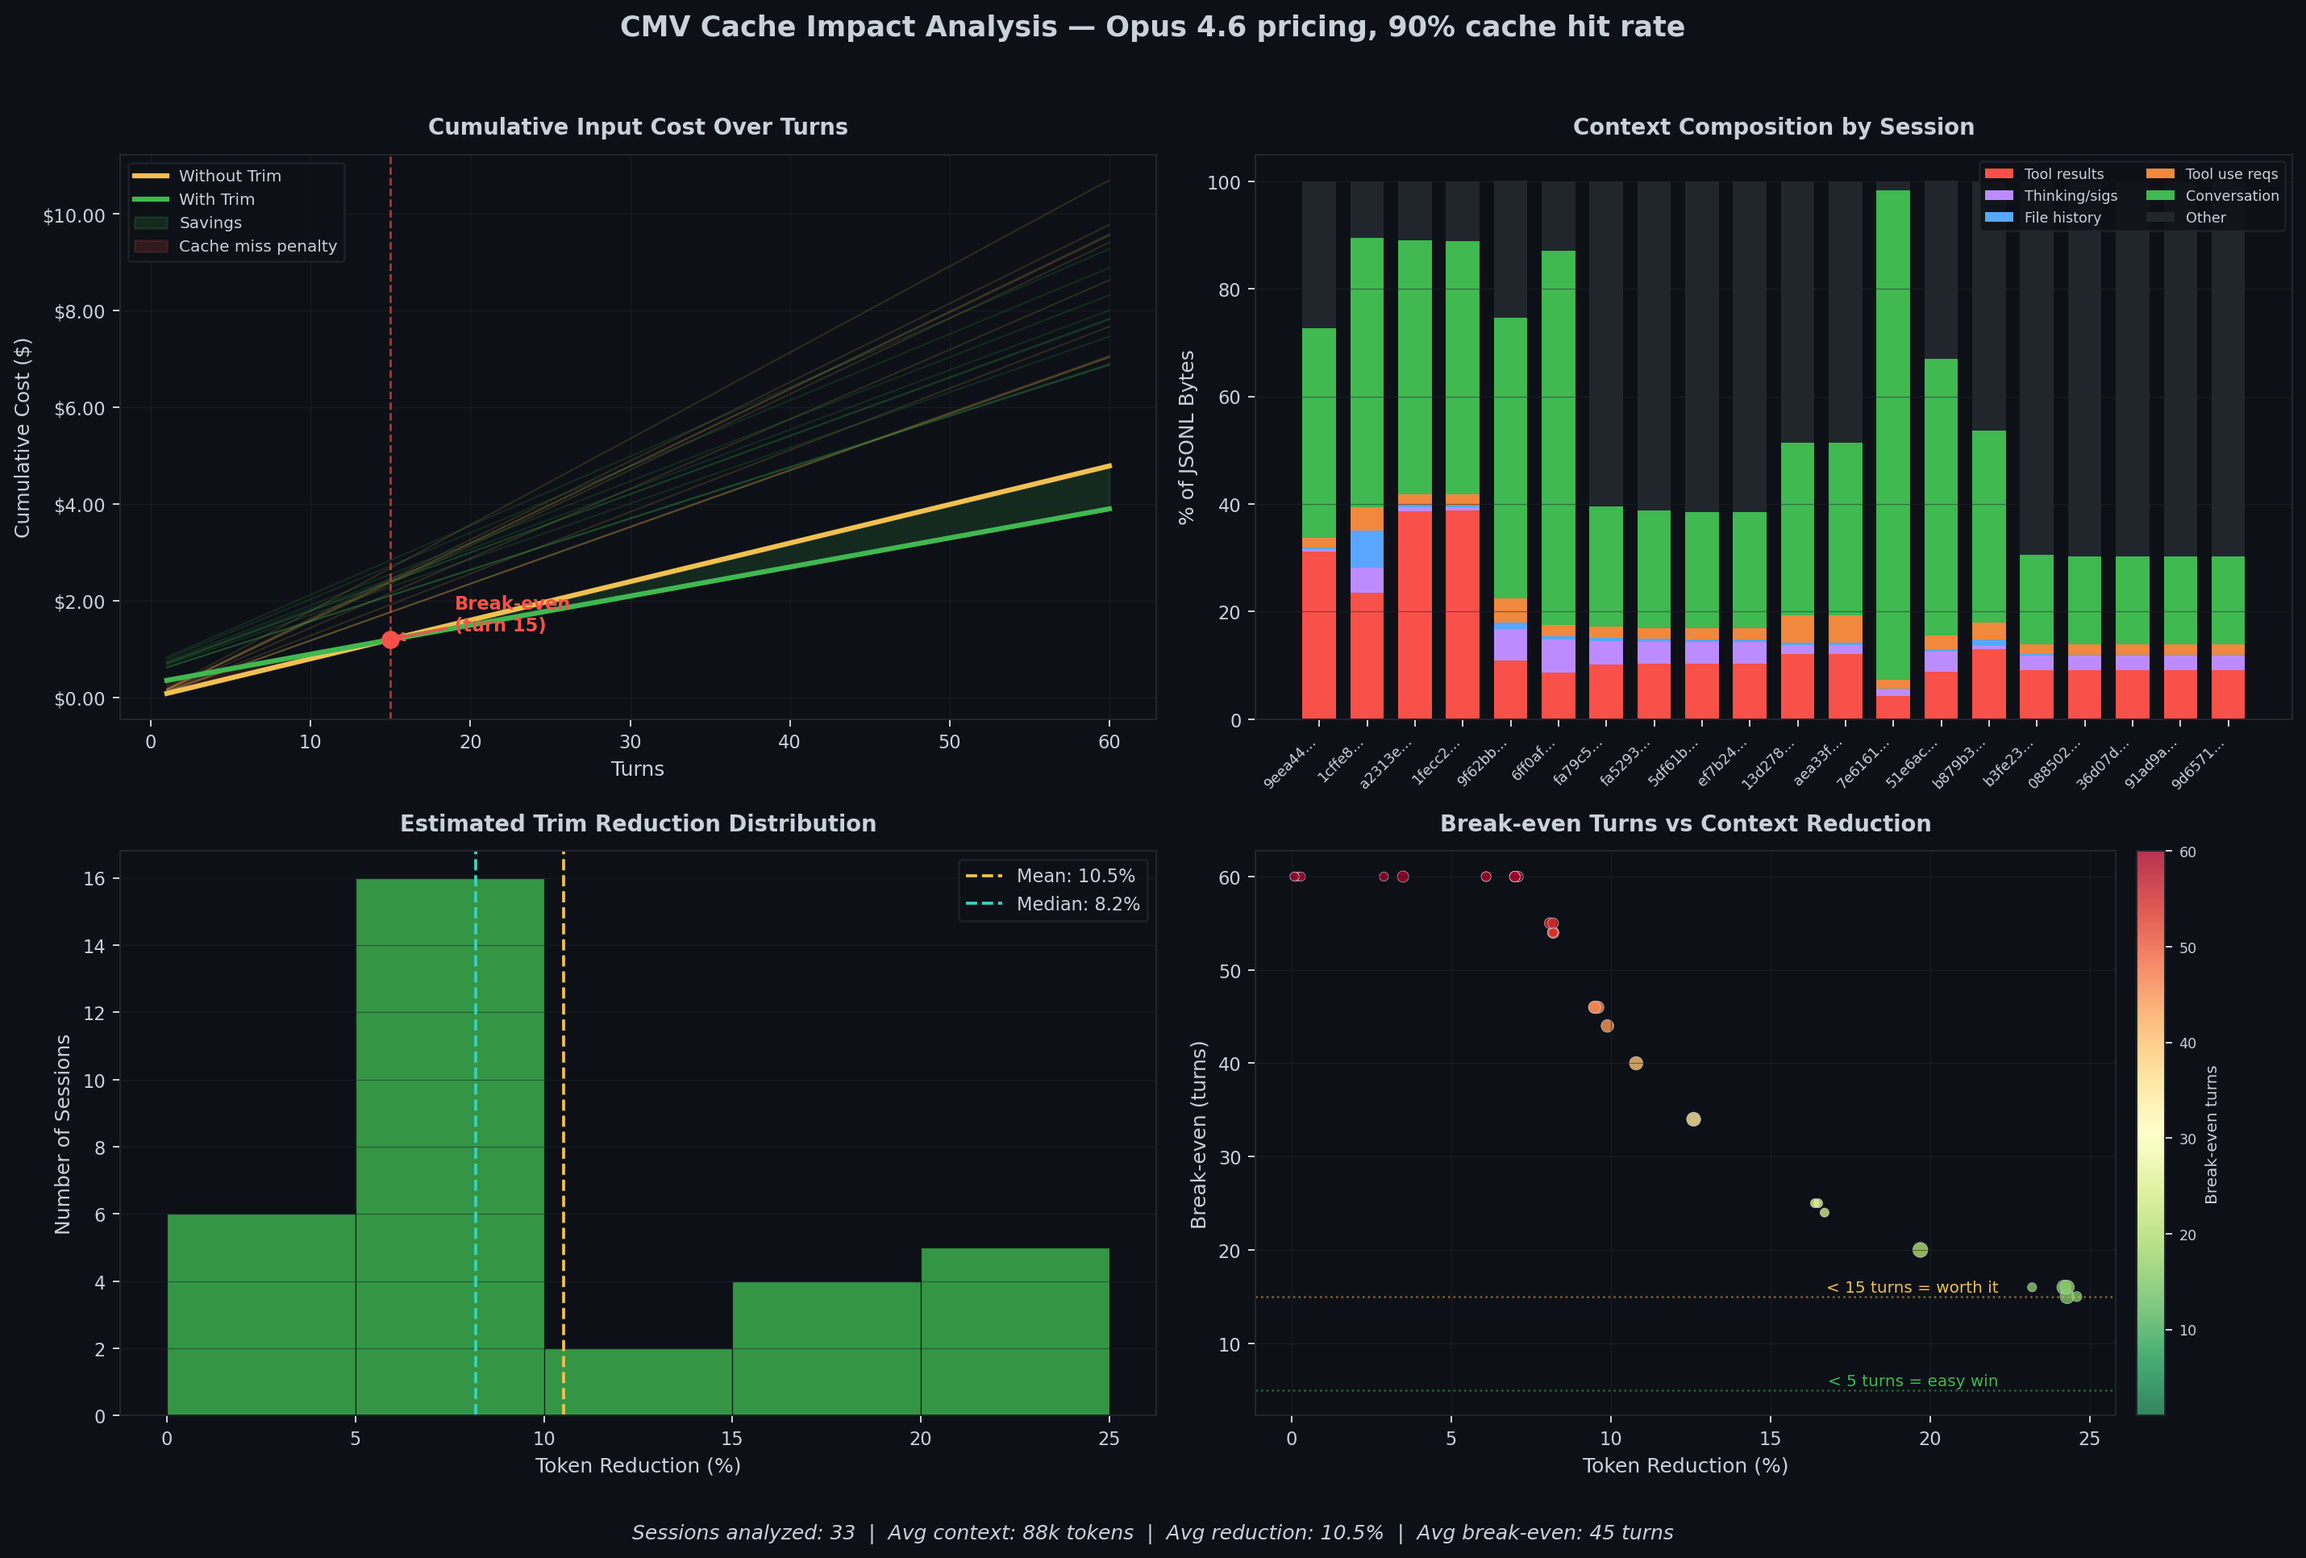
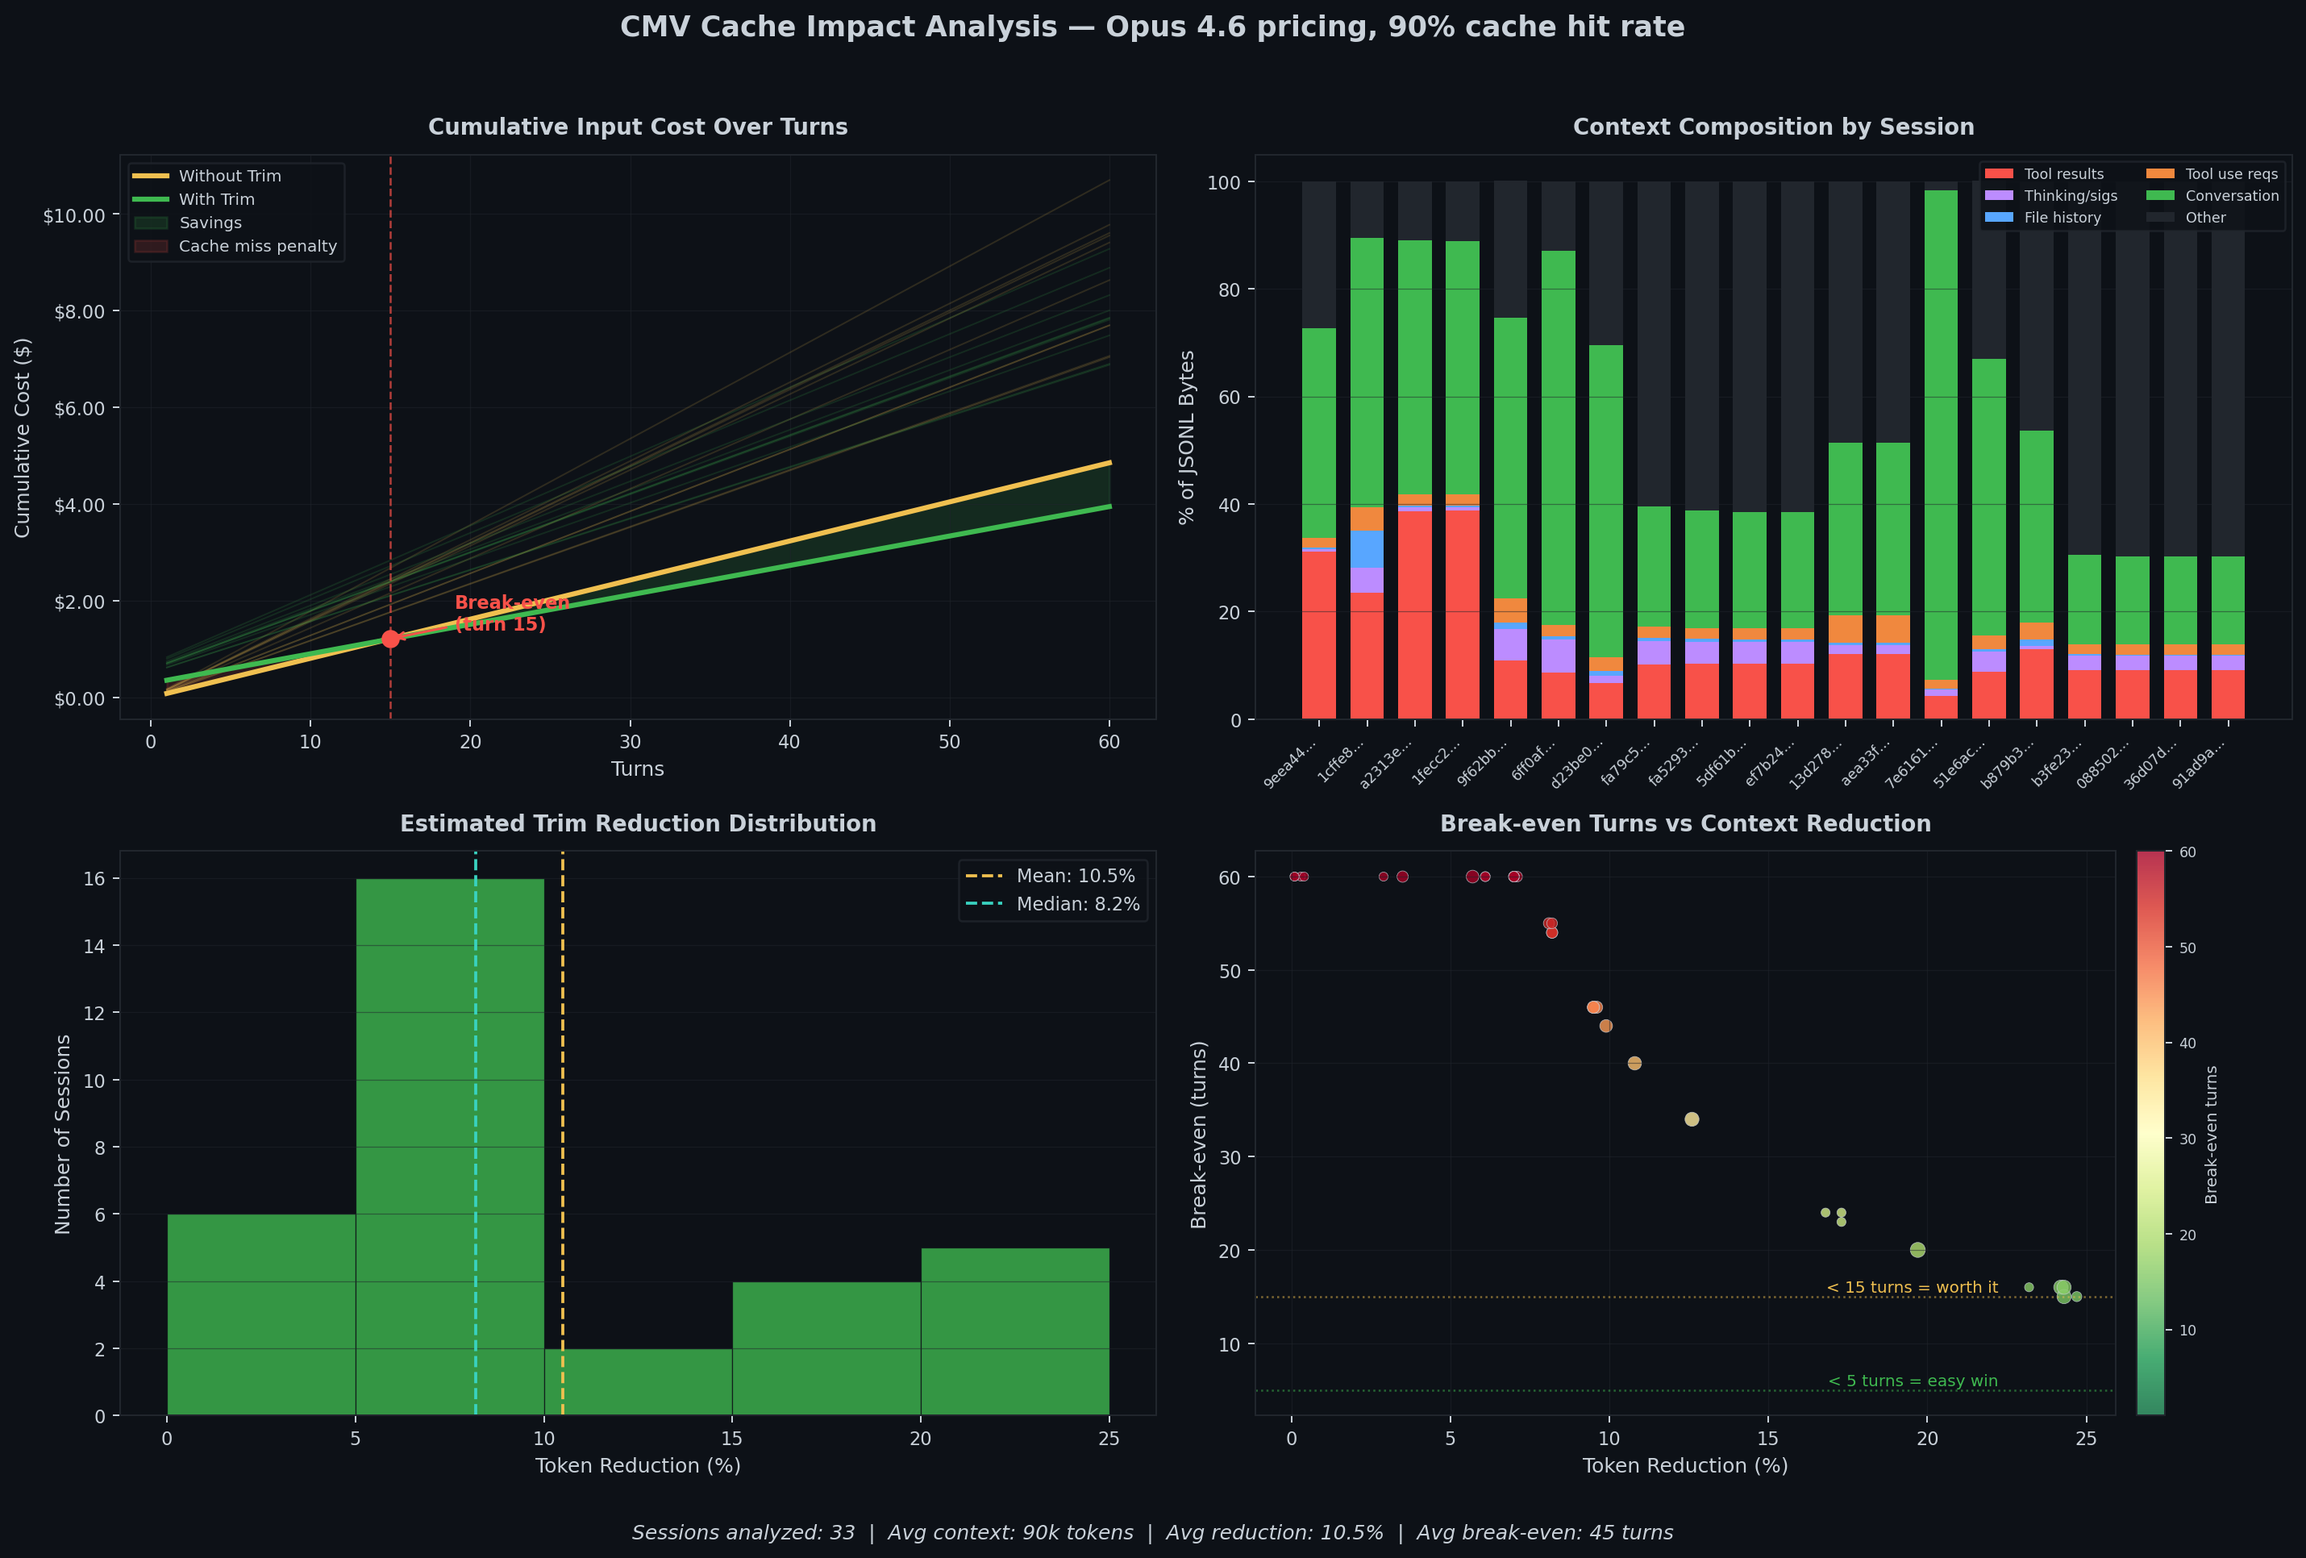
fix thinking block field name bug, update analysis with observed data
- analyzer: read block.thinking instead of block.text for thinking blocks
- benchmark: re-run with fix, update results table
- docs: add benchmark vs observed section with /context screenshots

diff --git a/src/core/analyzer.ts b/src/core/analyzer.ts
@@ -22,8 +22,8 @@ function contentTextLength(content: any): number {
   for (const block of content) {
     if (block.type === 'text' && typeof block.text === 'string') {
       total += block.text.length;
-    } else if (block.type === 'thinking' && typeof block.text === 'string') {
-      total += block.text.length;
+    } else if (block.type === 'thinking' && typeof block.thinking === 'string') {
+      total += block.thinking.length;
     } else if (block.type === 'tool_use' && block.input) {
       total += JSON.stringify(block.input).length;
     } else if (block.type === 'tool_result') {
@@ -184,8 +184,8 @@ export async function analyzeSession(jsonlPath: string): Promise<SessionAnalysis
             breakdown.thinkingSignatures.count++;
           }
           // Thinking text counts toward content tokens
-          if (typeof block.text === 'string') {
-            contentChars += block.text.length;
+          if (typeof block.thinking === 'string') {
+            contentChars += block.thinking.length;
           }
         }
         if (block.type === 'tool_use') {

diff --git a/docs/assets/benchmark_analysis.py b/docs/assets/benchmark_analysis.py
@@ -225,8 +225,8 @@ def analyze_session(jsonl_path: str) -> SessionAnalysis | None:
                                     json.dumps(block["signature"]).encode("utf-8")
                                 )
                                 thinking_count += 1
-                            if isinstance(block.get("text"), str):
-                                content_chars += len(block["text"])
+                            if isinstance(block.get("thinking"), str):
+                                content_chars += len(block["thinking"])
 
                         elif btype == "tool_use":
                             tu_b += len(json.dumps(block).encode("utf-8"))

diff --git a/docs/CACHE_IMPACT_ANALYSIS.md b/docs/CACHE_IMPACT_ANALYSIS.md
@@ -83,13 +83,13 @@ We assume a **90% cache hit rate** in steady state. This is not empirically meas
 | Metric | Value |
 |--------|-------|
 | Sessions analyzed | 33 |
-| Mean token reduction | 10.9% |
+| Mean token reduction | 10.5% |
 | Median token reduction | 8.2% |
-| Sessions with >30% reduction | 2/33 |
-| Max reduction observed | 70.1% |
+| Sessions with >30% reduction | 0/33 |
+| Max reduction observed | 24.7% |
 | Mean pre-trim tokens | ~45k |
 
-Most sessions cluster around 5-10% reduction. The higher end of the range (30-70%) appears in sessions that have not yet been compacted by Claude Code's built-in summarizer. Post-compaction sessions, which represent the majority in a normal workflow, show more modest reduction. The 70.1% maximum is an outlier.
+Most sessions cluster around 5-10% reduction. Higher reductions (20-25%) appear in sessions that have not yet been compacted by Claude Code's built-in summarizer. Post-compaction sessions, which represent the majority in a normal workflow, show more modest reduction. Note that these are the benchmark's conservative estimates — see [Benchmark vs. Observed Reduction](#benchmark-vs-observed-reduction) for why real-world reductions are significantly higher.
 
 ### Cache Cost Impact (Opus 4.6, API-key users only)
 
@@ -97,7 +97,7 @@ Most sessions cluster around 5-10% reduction. The higher end of the range (30-70
 |--------|-------|
 | Mean cache miss penalty | $0.07-0.22 |
 | Mean savings per turn | $0.003-0.02 |
-| Mean break-even | ~44 turns |
+| Mean break-even | ~45 turns |
 | Worst-case break-even | ~60 turns |
 | Best-case break-even | 3 turns |
 
@@ -110,6 +110,35 @@ Most sessions cluster around 5-10% reduction. The higher end of the range (30-70
 **Break-even**: For sessions with ~10% reduction, this takes approximately 44 turns. For sessions with 30%+ reduction, break-even occurs within 3-5 turns. Even before break-even, the cumulative cost difference is small — on the order of cents.
 
 For sessions with minimal reduction (<5%), trimming offers negligible cost benefit. The `cmv benchmark` command flags these directly.
+
+### Benchmark vs. Observed Reduction
+
+The benchmark model is deliberately conservative. When we compared its predictions against actual Claude Code `/context` output for the same session before and after trimming, the real reduction was roughly **2x larger** than predicted:
+
+| Metric | Benchmark Prediction | Observed (`/context`) |
+|--------|---------------------|----------------------|
+| Pre-trim tokens | 148,494 | 147k |
+| Post-trim tokens | 112,388 | 74k |
+| Reduction | 24.3% | ~50% |
+| Free space reclaimed | — | 27k → 93k |
+
+**Before trim** (session a2313e42 — 147k/200k, 13.5% free):
+
+![Context before trimming — 74% usage](assets/snapshot.png)
+
+**After trim** (session d19b618c — 74k/200k, 46.4% free):
+
+![Context after trimming — 37% usage](assets/trim.png)
+
+Three factors explain the gap:
+
+1. **Image content inflates the byte denominator.** The benchmark estimates trim savings as a ratio of removed bytes to total bytes. Sessions containing image tool results (base64 screenshots, diagrams) have large byte counts that contribute minimally to token count (~0.008 tokens/byte vs ~0.25 for text). These images are never trimmed (the trimmer only stubs text content >500 chars), but they inflate `total_bytes`, making the byte-ratio a poor proxy for the token-ratio.
+
+2. **Bytes and tokens are not proportional for mixed content.** The model applies a single byte-removal ratio to the token estimate. This works when content is uniformly text, but breaks down when the session contains a mix of base64 images (high bytes, low tokens) and conversation text (low bytes, high tokens). Removing 100k chars of tool result text has far more token impact than the byte ratio suggests.
+
+3. **Thinking block field name mismatch (now fixed).** The analyzer was reading `block.text` for thinking blocks, but Claude's API stores thinking content under `block.thinking`. This caused ~5k tokens of thinking text per session to be invisible to the token estimator. The trimmer correctly removed these blocks, but the model didn't count the savings. This bug has been fixed in the analyzer.
+
+**Why we keep the conservative model:** A benchmark that understates its case is harder to attack than one that overstates it. If someone reproduces these numbers and observes 40-50% reduction where we claimed 10-25%, that validates the tool more strongly than aggressive predictions would. The model's directional finding — that trimming recovers its cache miss cost over a non-trivial session — holds regardless, and is strengthened by the observation that real reductions are larger than modeled.
 
 ---
 
